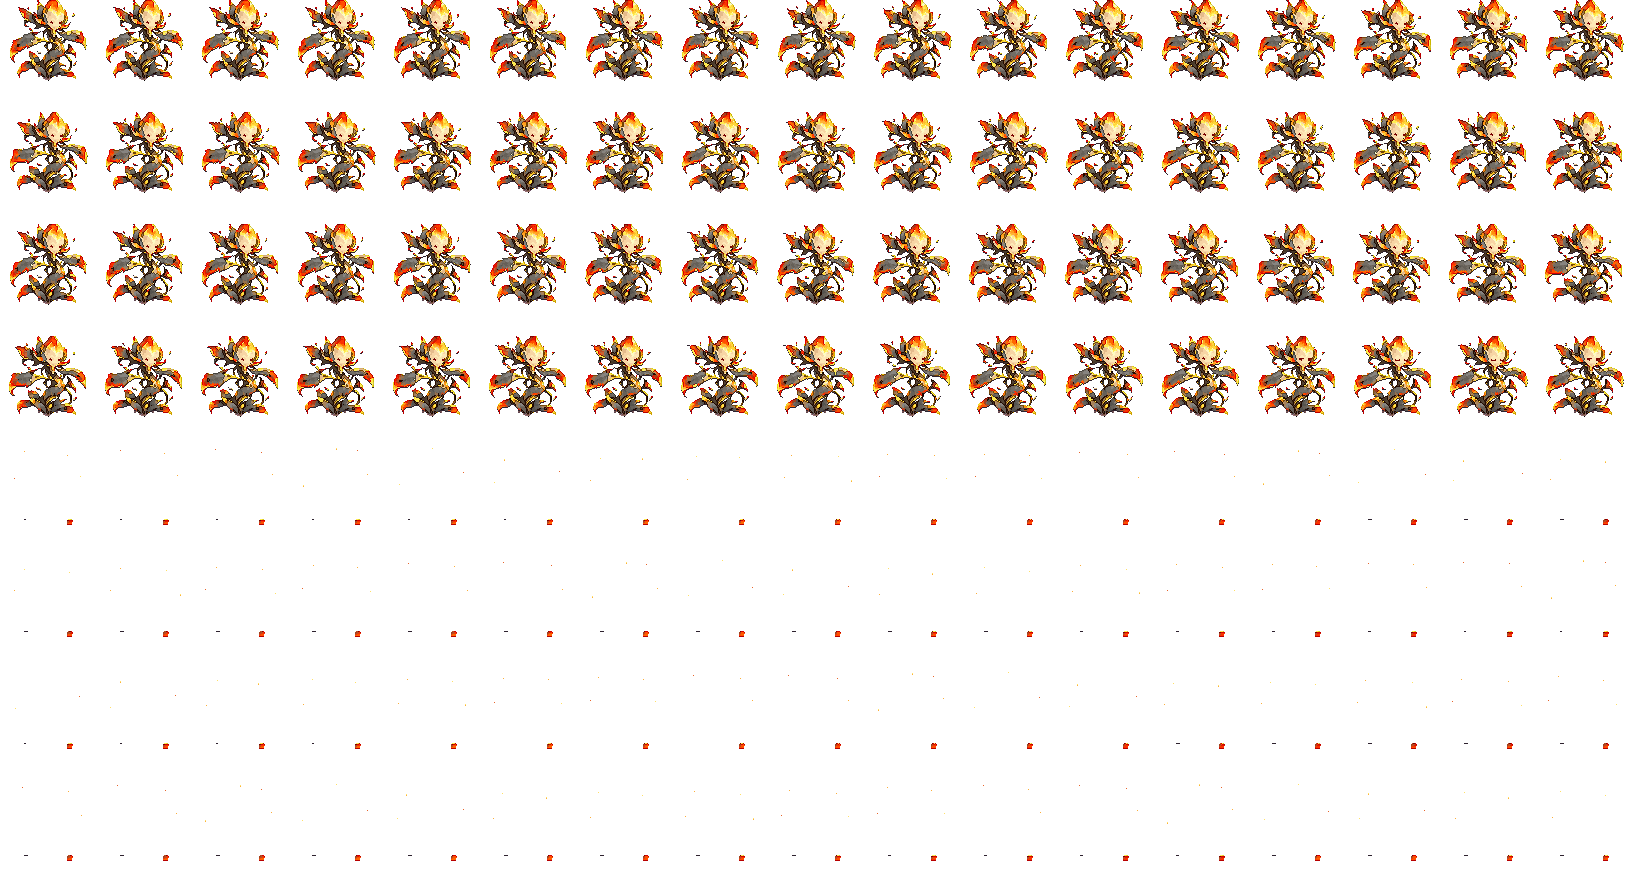
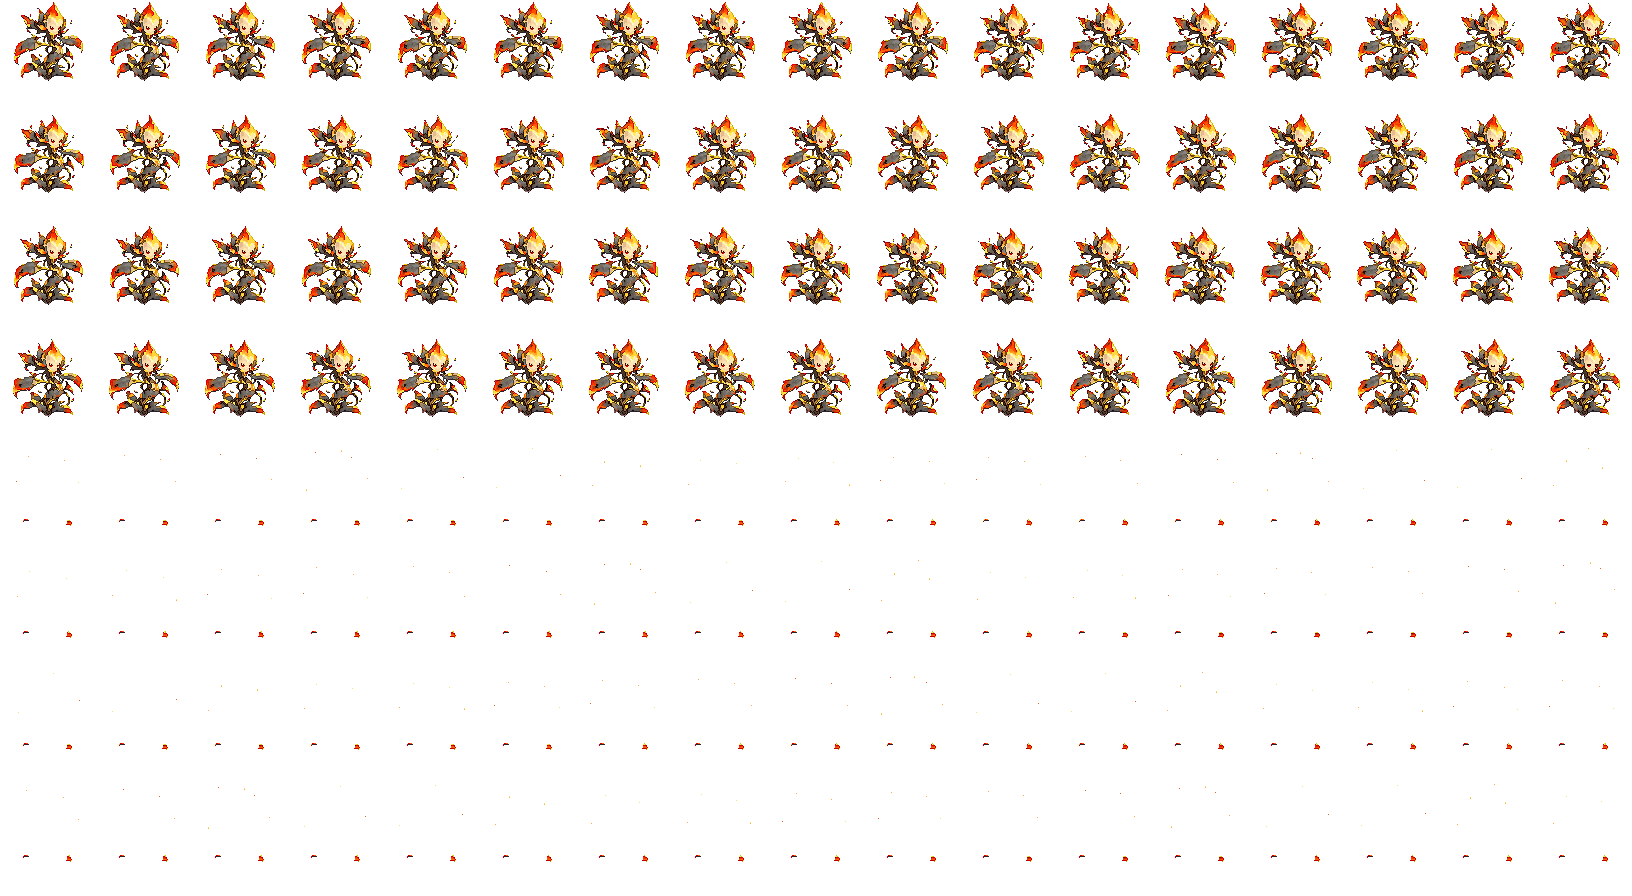
v2: 329 싹둑마마 성체 머리 불꽃 잘림 고침(크기 배수 1.2 → 1.08 · 세 단계 다시 묶음 · 친구 서버 전)
- 사용자 '싹둑마마 머리 위 불부분 짤린거 같은데 함 봐봐'

diff --git a/docs/CHANGELOG.md b/docs/CHANGELOG.md
@@ -4,6 +4,11 @@
 
 > 여기는 **v2(2026-10-14 전면 도트 재제작 ~)** 기록이다. 그 전 v1 시절(2026-06-15 ~ 09-11, 옛 `index.html`)은 [history/CHANGELOG-v1.md](history/CHANGELOG-v1.md)로 옮겼다(2026-10-25).
 
+### 2026-10-29 (329) — 싹둑마마(블레이드바인) 성체 머리 불꽃 잘림 고침(친구 서버 전)
+
+- 사용자 '싹둑마마 머리 위 불부분 짤린거 같은데 함 봐봐'. 원인 = 10-17 '왜소해 보여'로 준 크기 배수 1.2(`convert.mjs TUNE.blade_vine.fit`) — 성체 대기 64장 모두 불꽃 끝이 판(96×112) 맨 윗줄에 닿아 평평하게 잘림.
+- 1.08로 줄여 불꽃 끝까지 판 안에(맨 위 2~4칸 · 움직임 장 포함) — 몸은 전보다 약 10% 작음(1.0이면 17%). 성체 · 자람 · 어린 다시 묶음(`--export` · `--stage=young|teen` — 단계 크기는 성체 축척 기준이라 같이 줄어듦, 어린 23 · 자람 9 · 성체 2칸) + 작은 칸 그림(`small.mjs` — 다른 종 작은 그림은 그대로 되돌림).
+
 ### 2026-10-29 (328) — 공개 때 회색 경계선 고침 · ㉤ 효과 설명 안내 · 처음 보는 효과 점 · ㉥ 시안(공개 카드 효과 아이콘 · 상대가 방금 쓴 카드)(친구 서버 전)
 
 - **회색 선:** 사용자 '카드 선택 후 선공판정시 이 부분에 회색 선이 있어 해결해줘' — 공개(선공 · 후공) 때 화면을 어둡게 덮는 판이 경기장 아래 끝에서 끊겨 손패 카드 윗부분에 경계선 → 위 띠 아래부터 화면 끝까지 덮음(`drawReveal`).
